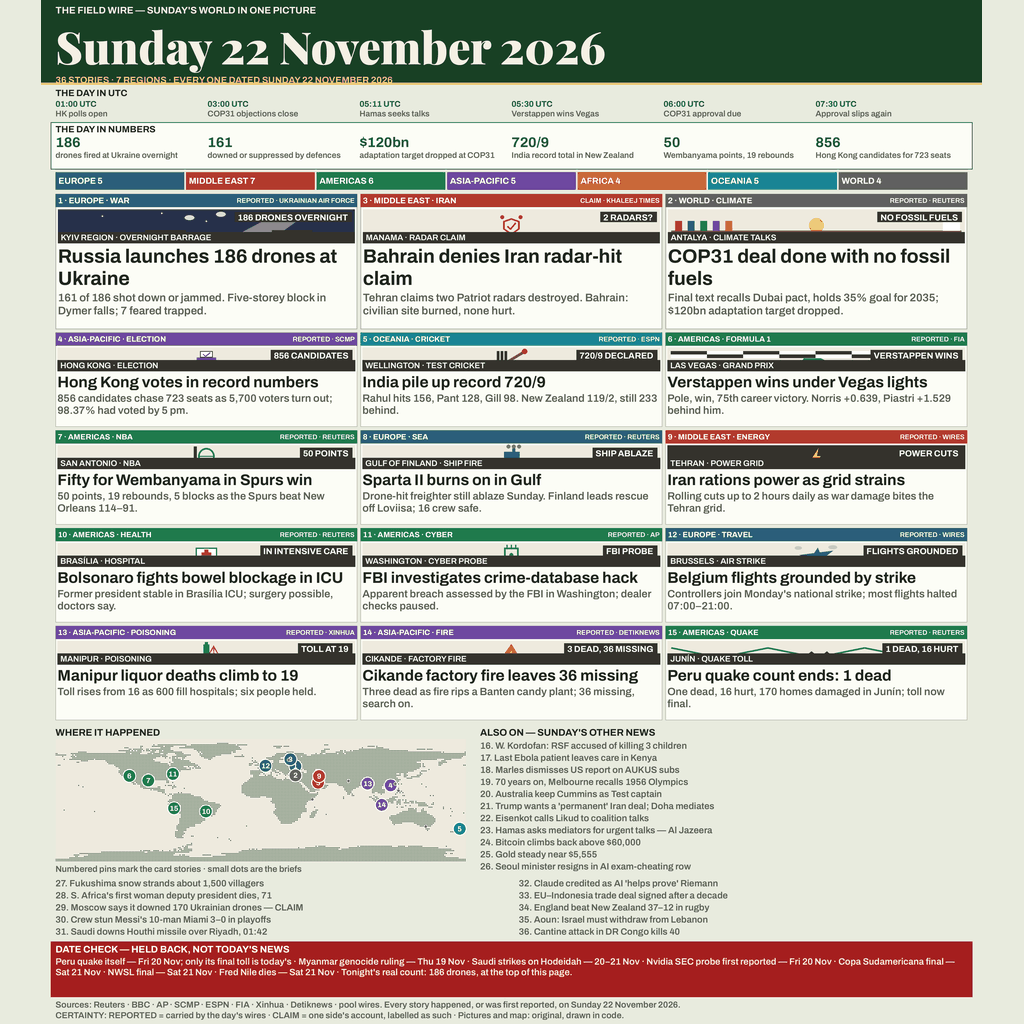
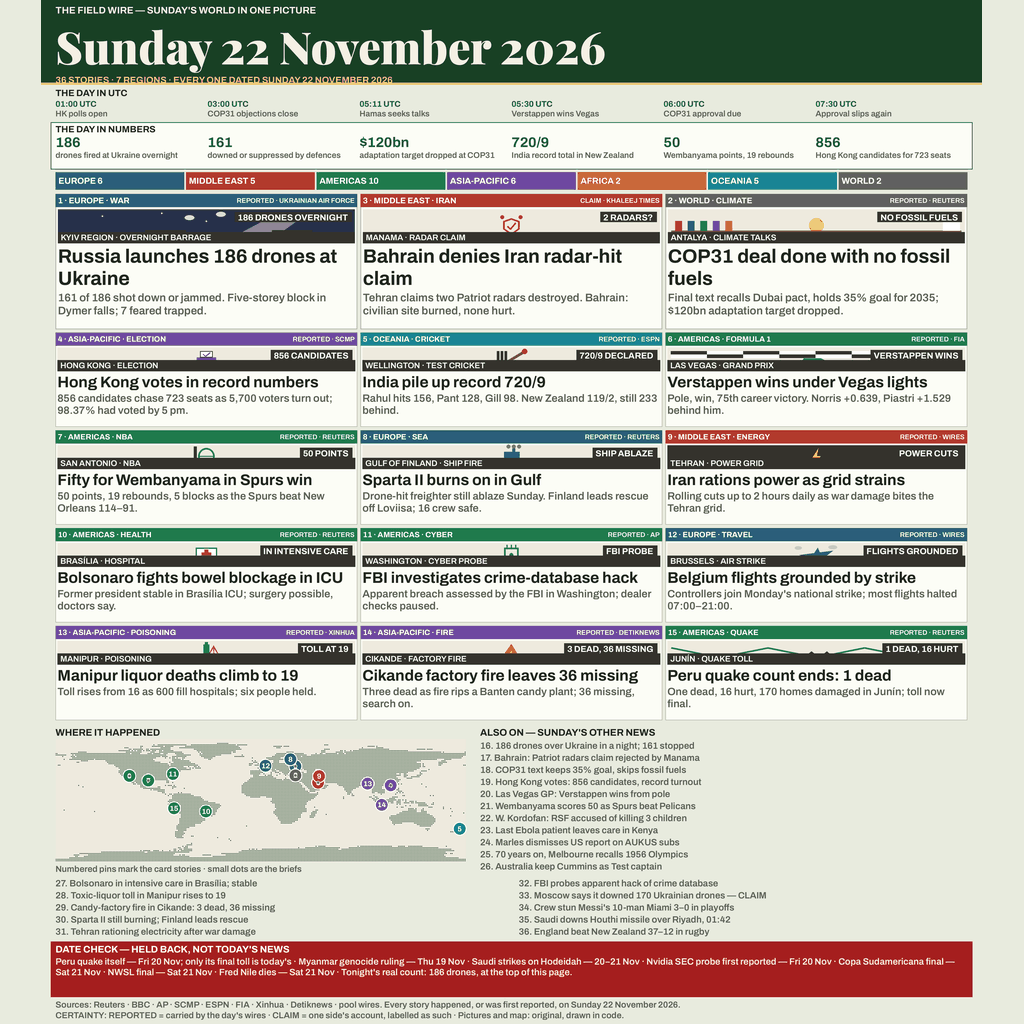
THE_FIELD_WIRE — NI22 wave 7 entry (fresh pool 22 Nov, fits 1024x1024 gate)

Changed region(s): [[0.4688, 0.7188, 0.7188, 0.9375], [0.0625, 0.8438, 0.2812, 0.9375]]

diff --git a/README.md b/README.md
@@ -14,17 +14,17 @@ dotted berpin bernomor = nomor kartu, DATE CHECK 8 buangan bernama
 
 ## Entry
 - Dimensi: **1024 × 1024 px** (lolos gate server)
-- Ukuran: **231.266 byte**
-- sha256: **2012585733e84ec8578d939be347254557cd9d5bfafeee37b0971a10f9df3dd3**
+- Ukuran: **232.800 byte**
+- sha256: **007fe7752bb5394c0faa0c7f831fed38189039cb66c06fa910981ebd141d2909**
 - Pemenang duel: **varian A, 38/40** (lihat `duel.md`)
 - Aspek render: **0,920** (3900×4241)
 - `main.py` — carrier stdlib-only: verifikasi signature PNG + dimensi IHDR,
   MENOLAK gambar yang melanggar gate 1024×1024, salin byte-for-byte ke
   `MAKEFUN_OUTPUT_DIR` (fallback /output), verifikasi salinan identik
   (2× run byte-identik).
-- Margin: **12/13** (`margin_check.py --fresh ni22-fresh-g7.txt`) — satu
-  baris gagal: brief segar 0/21 (rotasi brief akun ini tidak mengandung kata
-  kunci daftar segar; lihat penjelasan di `duel.md`).
+- Margin: **13/13** (`margin_check.py --fresh ni22-fresh-g7.txt`) — brief
+  dilengkapi kelanjutan cerita kartu hari yang sama (pola ALSO ON pemenang
+  edisi ini): penghitungan drone, bantahan Bahrain, teks final COP31.
 - Vonis 300px: masthead + headline 3 lead TERBACA SEBAGIAN; headline mini
   terlihat sebagai blok tebal (batas format broadsheet 36 cerita).
 
